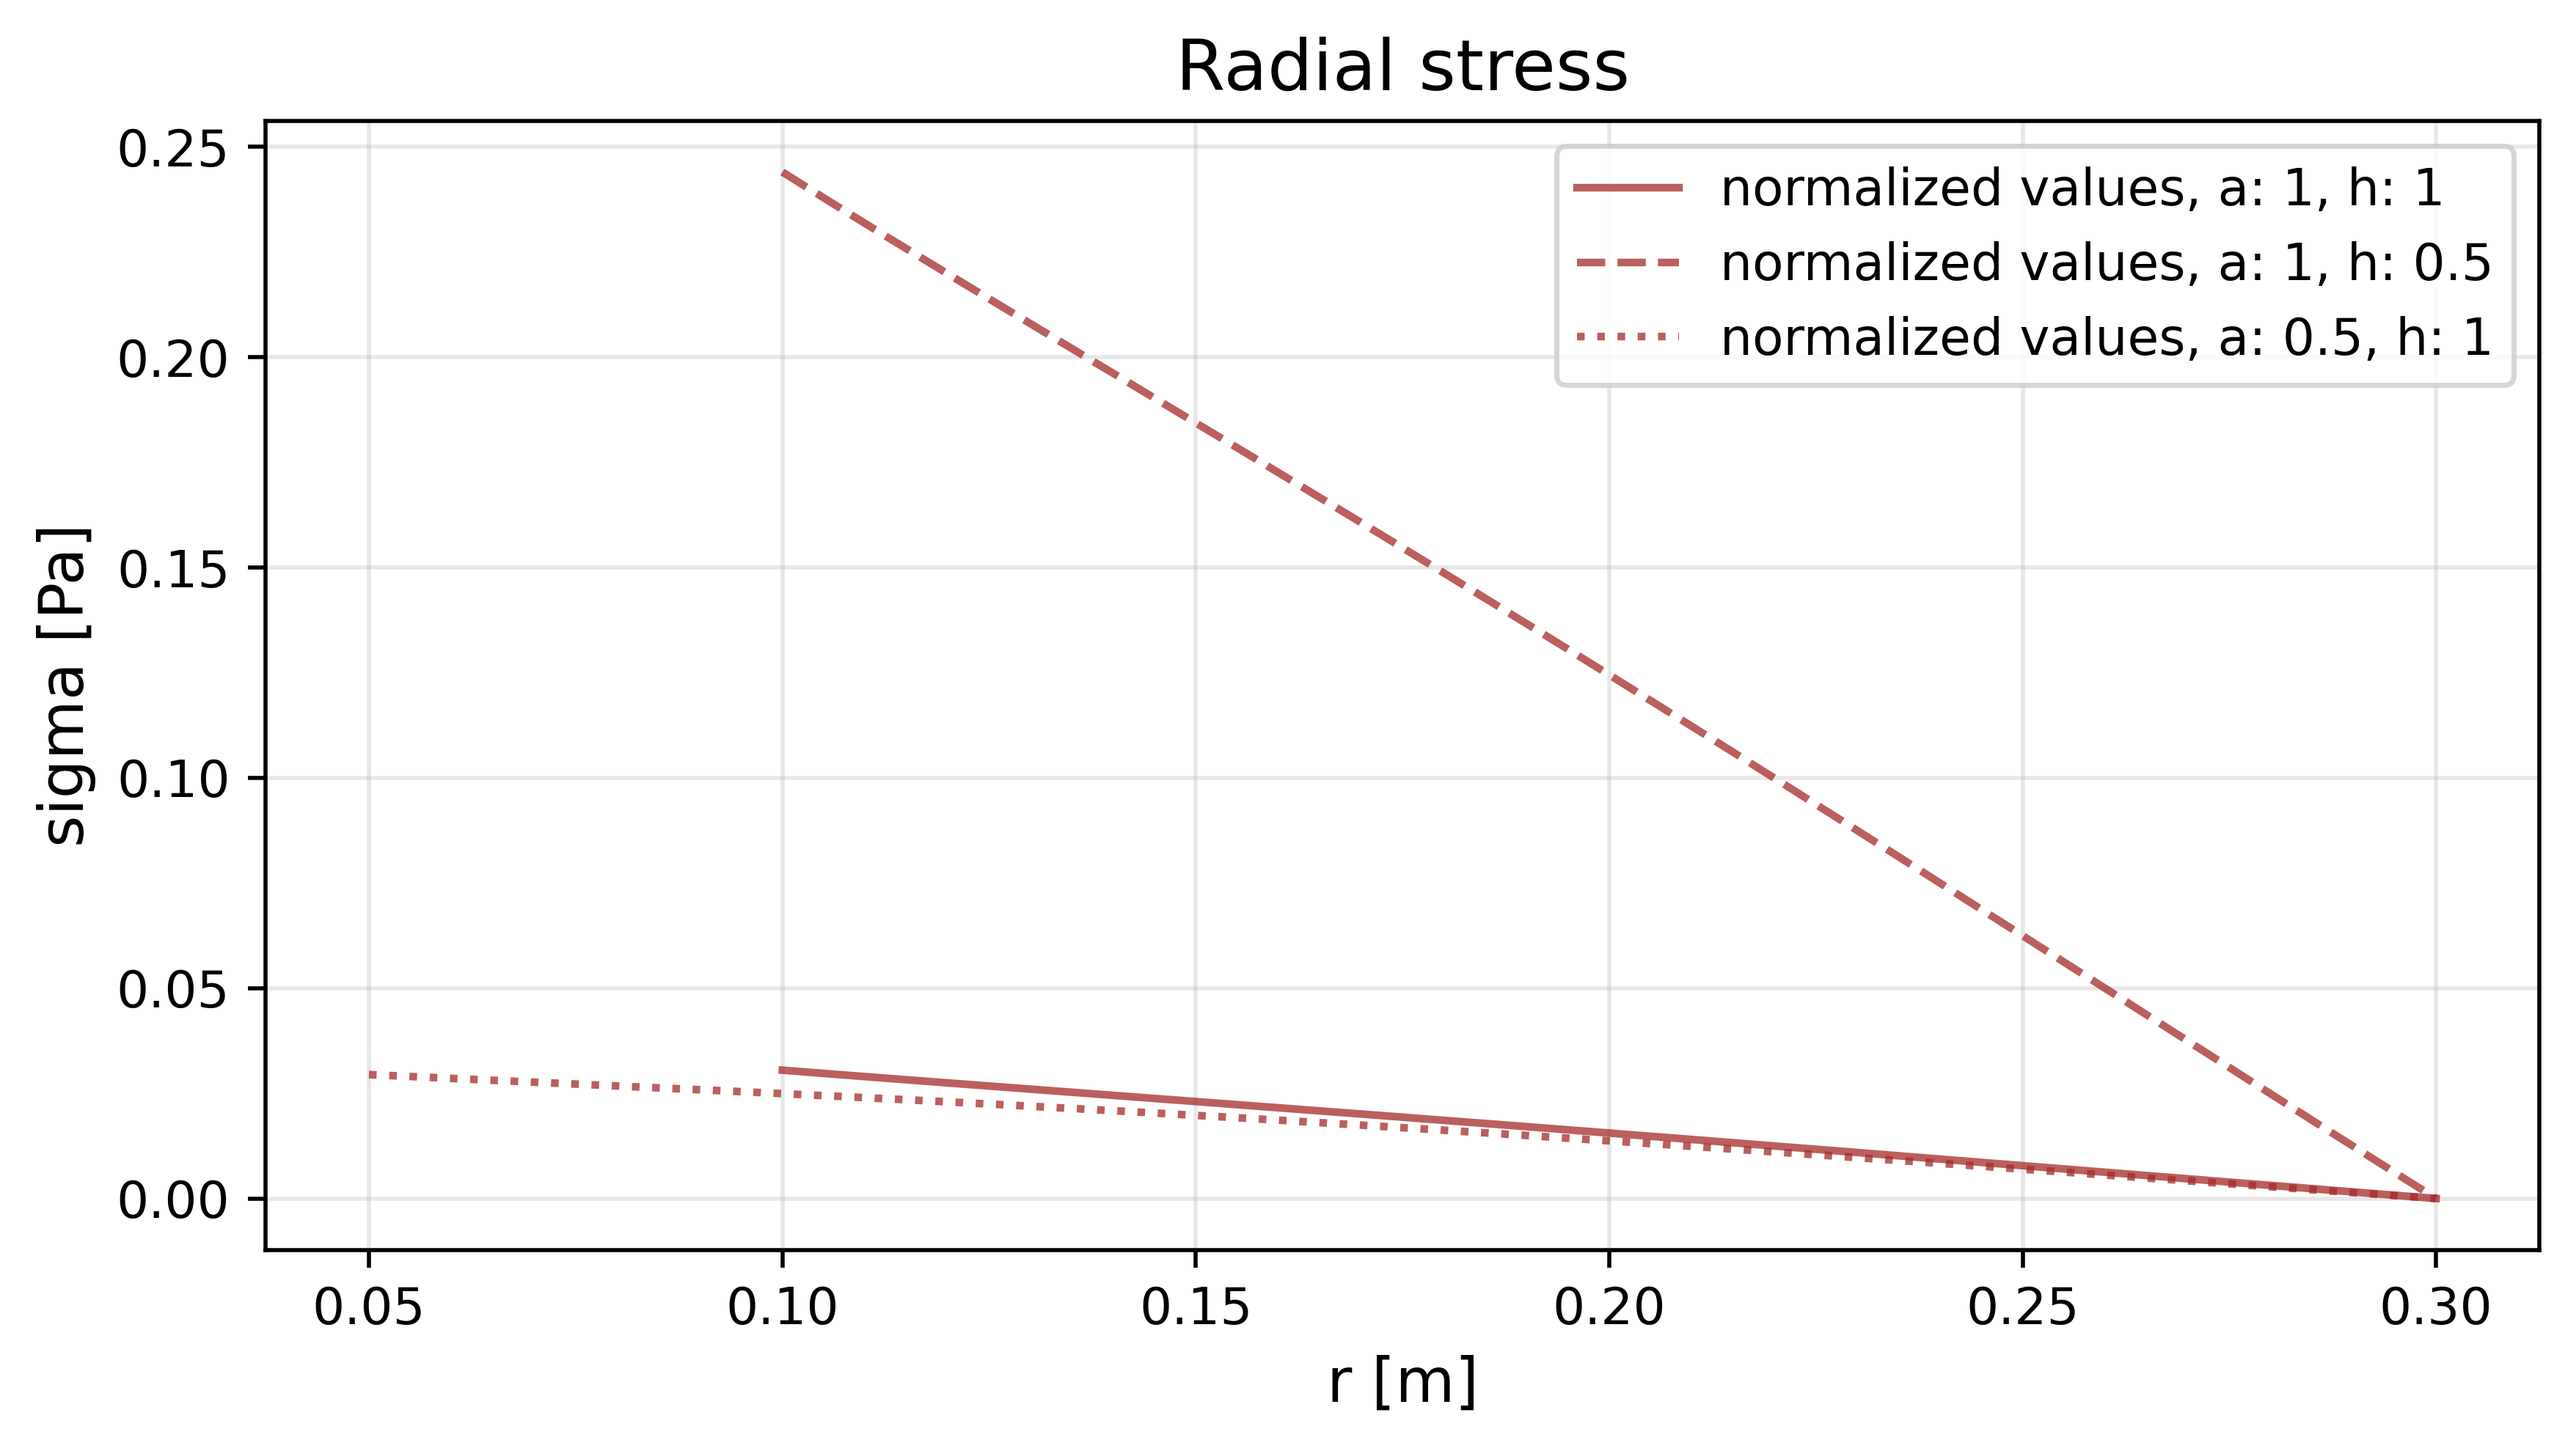
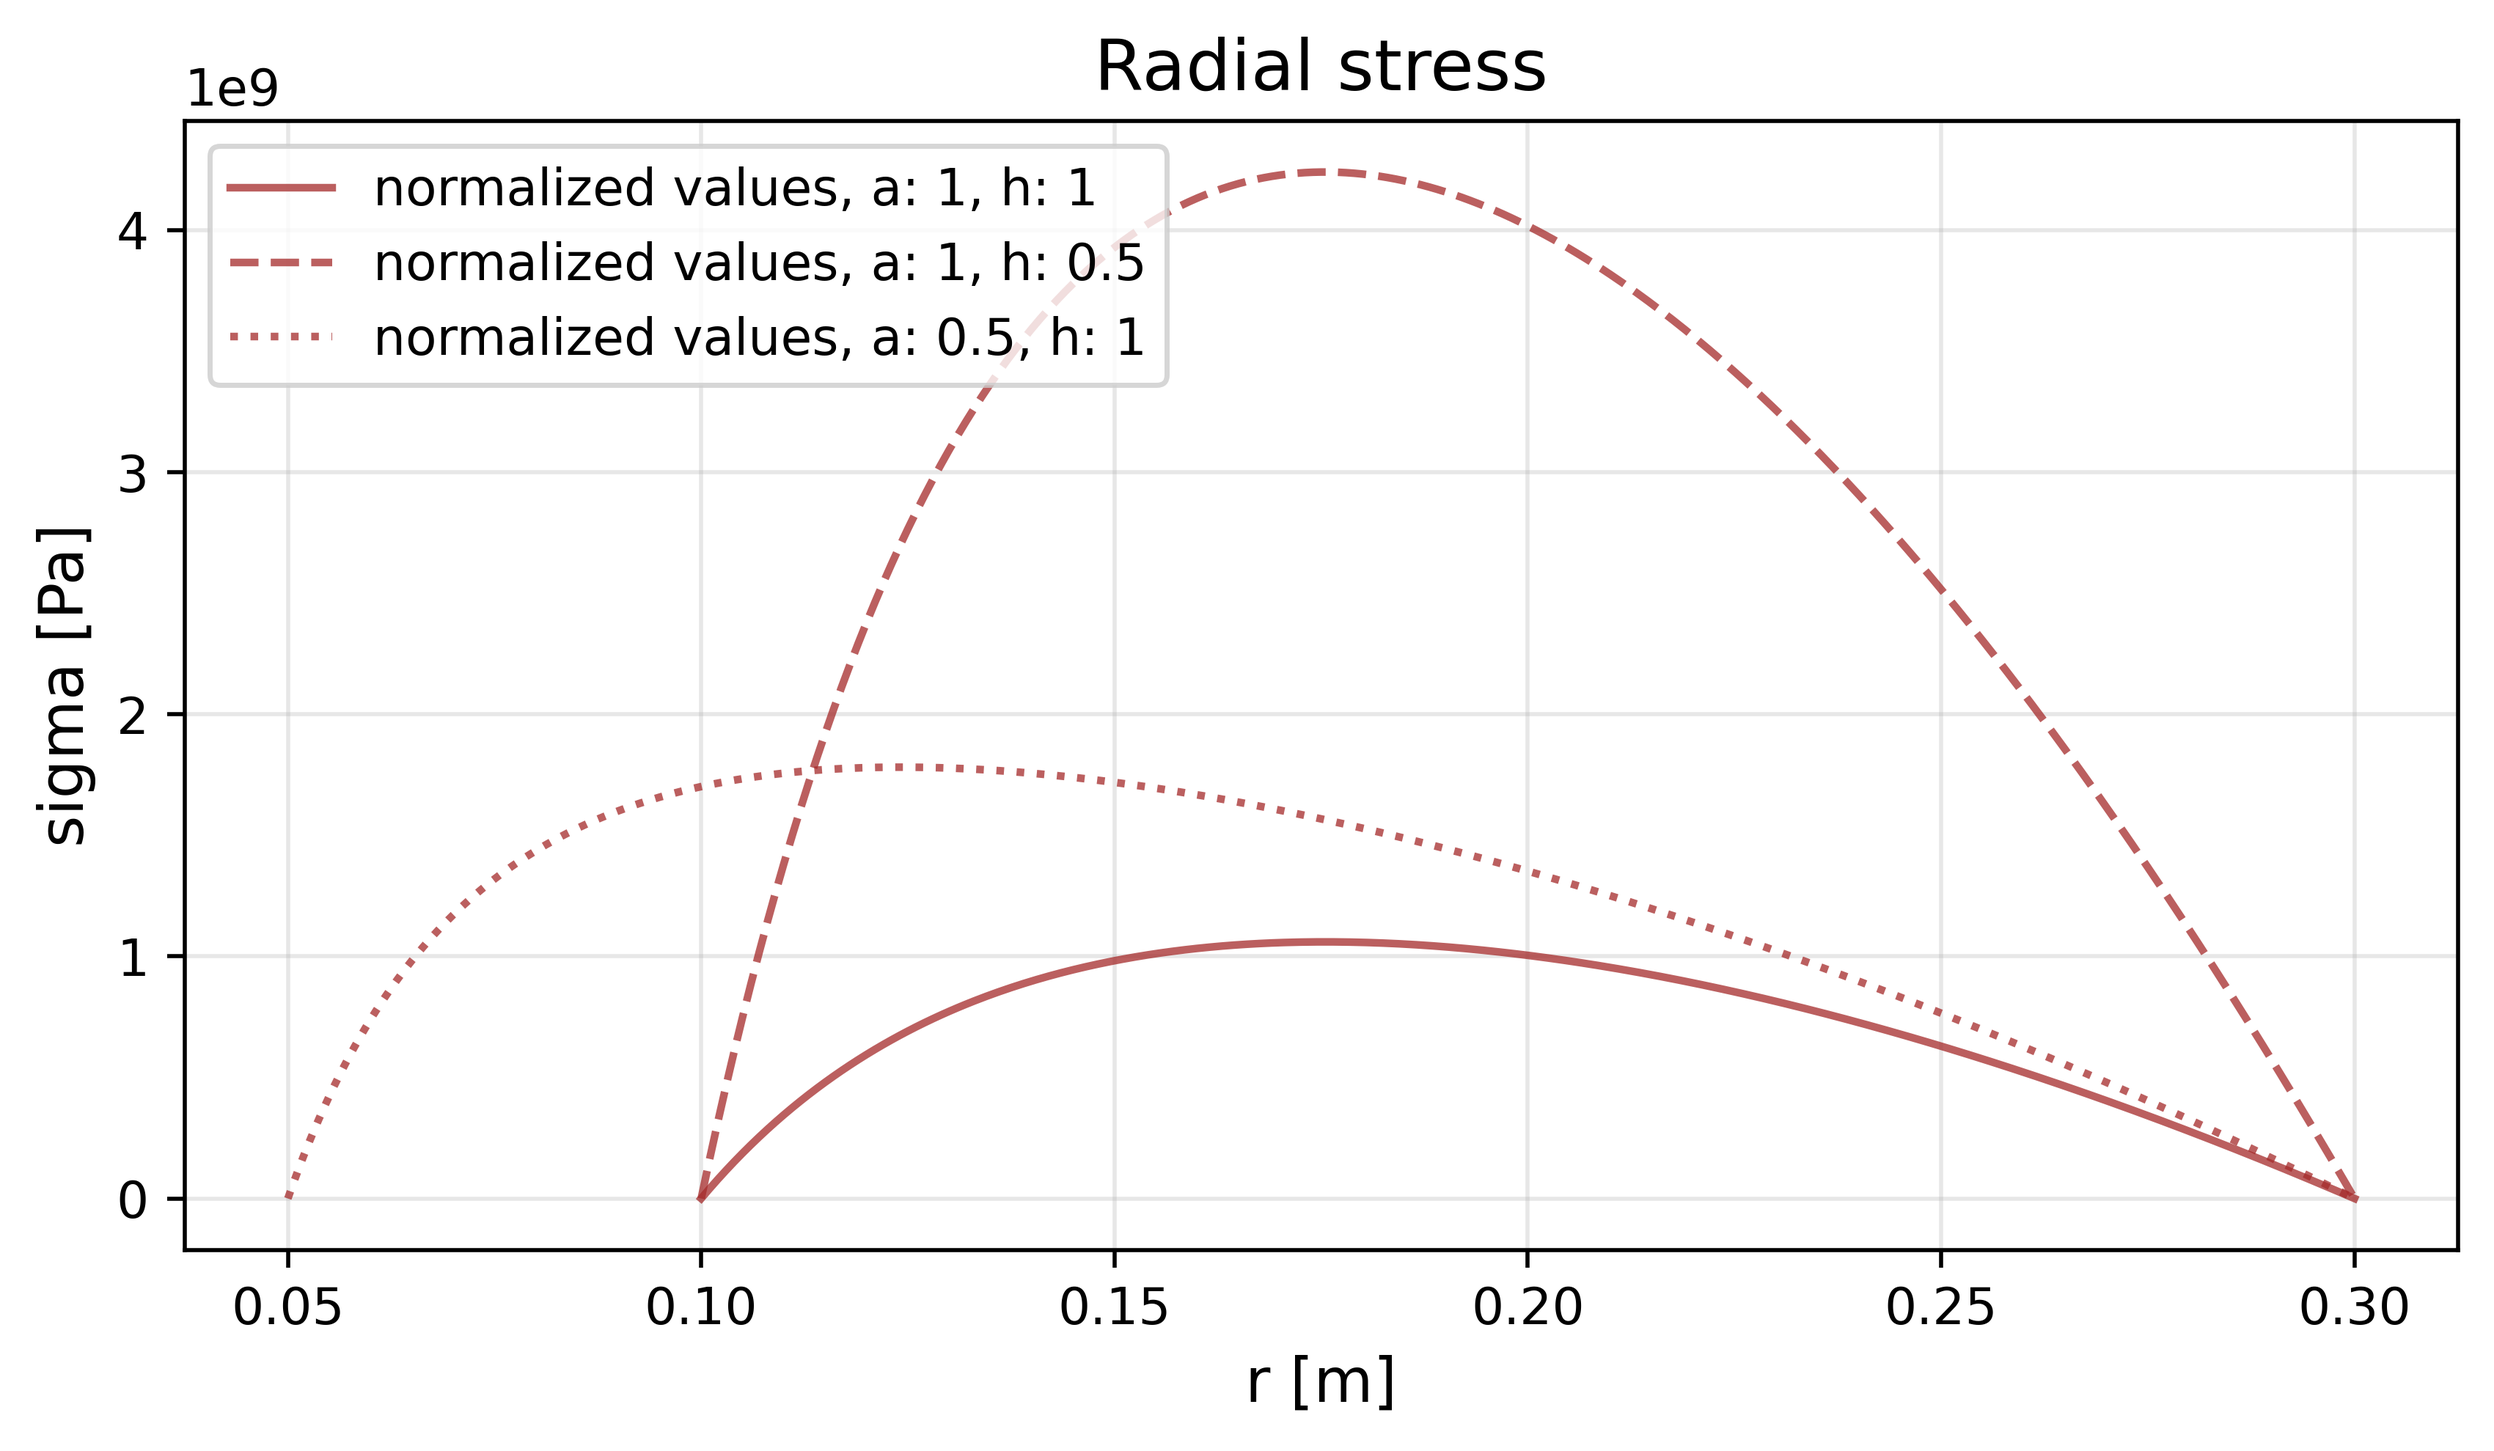
.

diff --git a/TME235/A3 & A4/A3&A4_final.py b/TME235/A3 & A4/A3&A4_final.py
@@ -364,9 +364,9 @@ plt.ylabel('w [m]')
 fig('comparison radial deflection numerical')
 
 plt.figure()
-plt.plot(a1h1_r_vals, a1h1_w_vals, color='brown', alpha=0.75, label=fr'normalized values, a: {1}, h: {1}')
-plt.plot(a1h2_r_vals, a1h2_w_vals, color='brown', alpha=0.75, linestyle='--', label=fr'normalized values, a: {1}, h: {0.5}')
-plt.plot(a2h1_r_vals, a2h1_w_vals, color='brown', alpha=0.75, linestyle=':', label=fr'normalized values, a: {0.5}, h: {1}')
+plt.plot(a1h1_r_vals, a1h1_sigma_rr_vals, color='brown', alpha=0.75, label=fr'normalized values, a: {1}, h: {1}')
+plt.plot(a1h2_r_vals, a1h2_sigma_rr_vals, color='brown', alpha=0.75, linestyle='--', label=fr'normalized values, a: {1}, h: {0.5}')
+plt.plot(a2h1_r_vals, a2h1_sigma_rr_vals, color='brown', alpha=0.75, linestyle=':', label=fr'normalized values, a: {0.5}, h: {1}')
 plt.title('Radial stress')
 plt.xlabel('r [m]')
 plt.ylabel('sigma [Pa]')

diff --git a/functions_imports.py b/functions_imports.py
@@ -55,3 +55,4 @@ def fig(fig_name):
     plt.grid(True, alpha = 0.3)
     plt.savefig(fig_output_file, dpi=dpi, bbox_inches='tight')
     plt.show()
+    print('figure name: ', fig_name)
